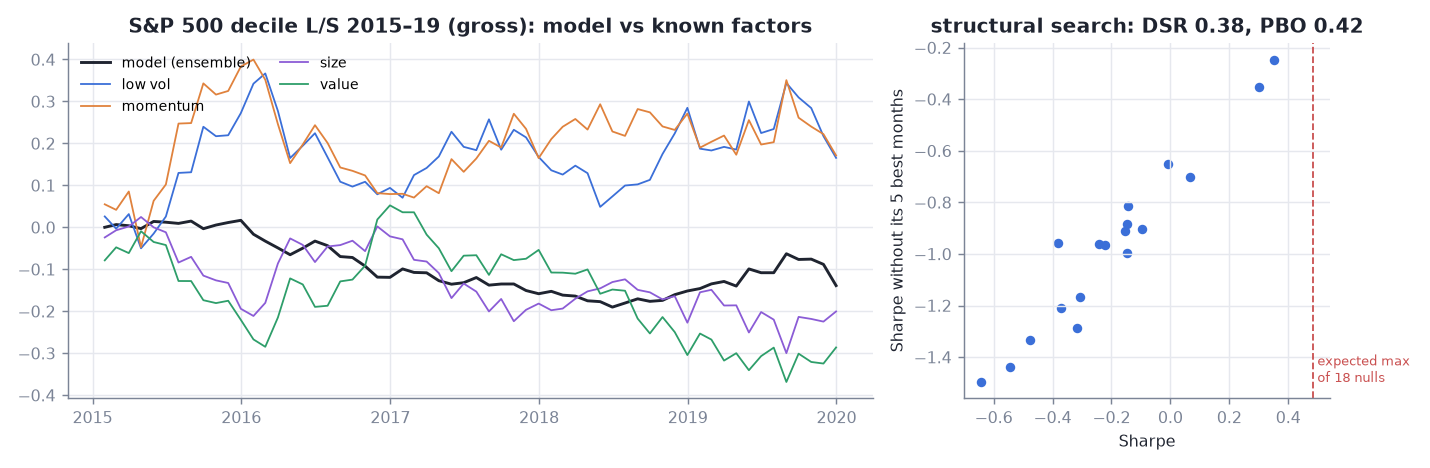
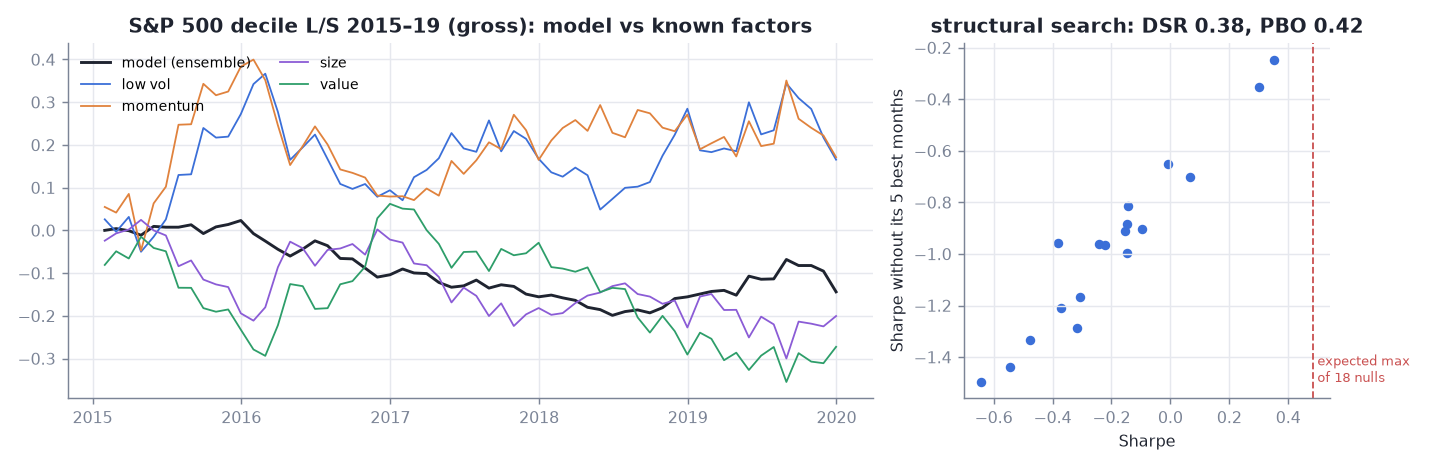
Gallery: PEAD (filing vs press-release timing; why the models lose to the sort)

Changed region(s): [[0.0, 0.2094, 0.6154, 0.7778], [0.1231, 0.1795, 0.1846, 0.2094], [0.0, 0.8376, 0.0615, 0.8675]]

diff --git a/examples/gallery/build.py b/examples/gallery/build.py
@@ -424,6 +424,63 @@ def spy_search(home: Path) -> dict[str, Any]:
     }
 
 
+def pead(store: ArtifactStore, home: Path) -> dict[str, Any]:
+    """Earnings events: the surprise sort timed on the 10-Q filing and on the press release, the models against it,
+    and why the models lose (training-sample ICs that do not survive)."""
+    recs = [r for r in records(home, "pead") if "cal_sue_sort" in r["results"] and not r["meta"].get("search")]
+    rel = next((r for r in reversed(recs) if r["meta"].get("params", {}).get("event") == "release"), None)
+    fil = next((r for r in reversed(recs) if r["meta"].get("params", {}).get("event", "filing") == "filing"), None)
+    if rel is None or fil is None:
+        return {}
+    fig, ax = plt.subplots(1, 2, figsize=(11, 3.6), gridspec_kw={"width_ratios": [1.6, 1]})
+    for rec, stage, label, c, ls in (
+        (fil, "cal_sue_sort", "surprise sort, entered after the 10-Q filing", MUTED, "--"),
+        (rel, "cal_sue_sort", "surprise sort, entered after the press release", INK, "-"),
+        (rel, "cal_ridge", "ridge on 7 inputs, press release", C["short"], "-"),
+    ):
+        st = load(store, rec, stage)
+        d = pl.DataFrame(st["daily"]).with_columns(pl.col("date").str.to_date())
+        ax[0].plot(
+            d["date"],
+            np.cumsum(d["ls"].to_numpy()),
+            color=c,
+            ls=ls,
+            lw=1.3,
+            label=f"{label}: Sharpe {st['ls']['sharpe']:.2f}",
+        )
+    ax[0].axhline(0, color=INK, lw=0.6)
+    ax[0].set_title("S&P 500 earnings events 2014–20: top vs bottom decile, held 60 days", fontsize=10)
+    ax[0].legend(loc="upper left", fontsize=7.5)
+    P = load(store, rel, "panel")
+    feats = ["sue", "rev_sue", "accruals", "ear_3", "pre_21", "size", "mom_12_1"]
+    tr, te = P.filter(pl.col("y_year") < 2014), P.filter(pl.col("y_year").is_between(2014, 2020))
+    ic = {
+        f: (tr.select(pl.corr(f, "y", method="spearman")).item(), te.select(pl.corr(f, "y", method="spearman")).item())
+        for f in feats
+    }
+    y = np.arange(len(feats))
+    ax[1].barh(y + 0.2, [ic[f][0] for f in feats], 0.4, color=MUTED, label="first training window (2011–13)")
+    ax[1].barh(y - 0.2, [ic[f][1] for f in feats], 0.4, color=C["ls"], label="test years (2014–20)")
+    ax[1].set_yticks(y, feats, fontsize=8)
+    ax[1].axvline(0, color=INK, lw=0.6)
+    ax[1].set_title("input IC with the 60-day return")
+    ax[1].legend(loc="upper center", bbox_to_anchor=(0.5, -0.1), ncol=1, fontsize=7, frameon=False)
+    fig.tight_layout()
+    fig.savefig(FIG / "pead.png")
+    plt.close(fig)
+    books = {k: load(store, rel, "compare")["books"][k] for k in ("sue_sort", "ridge", "gbm", "ensemble")}
+    return {
+        "release_run": rel["run_id"],
+        "filing_run": fil["run_id"],
+        "filing_sue_sort_sharpe": load(store, fil, "cal_sue_sort")["ls"]["sharpe"],
+        "release_books": {
+            k: {"sharpe": v["sharpe"], "sharpe_ci": v["sharpe_ci"], "vs_sue_sort": v["vs_sue_sort"]}
+            for k, v in books.items()
+        },
+        "ic_train_test": ic,
+    }
+
+
 def twin_search(home: Path) -> dict[str, Any]:
     srch = _searches(home, "equity_twin")
     if len(srch) < 2:
@@ -461,6 +518,7 @@ def main() -> None:
         "equity_ls": equity(store, home),
         "spy_timing": spy_timing(store, home),
         "spy_search": spy_search(home),
+        "pead": pead(store, home),
         "twin_search": twin_search(home),
     }
     (HERE / "numbers.json").write_text(json.dumps(numbers, indent=1, default=str))

diff --git a/examples/gallery/README.md b/examples/gallery/README.md
@@ -5,6 +5,7 @@ Client studies of very different shapes, all run on the same chairlift modules (
 - **VXX**: one instrument and one row per date; timing the short-term VIX futures index.
 - **equity L/S**: S&P 500 members monthly, with fundamentals as filed.
 - **SPY timing**: one instrument, macro inputs with publication lags.
+- **PEAD**: S&P 500 earnings events, a few a day, each held 60 days.
 
 Everything here is an aggregate of a recorded run: figures, tables, and terminal transcripts. No data ships, and none
 of it is needed to read the page. `build.py` regenerates the figures and `numbers.json` from the run records under
@@ -218,6 +219,29 @@ Both real clients get in-fold transform searches: winsorize, interactions and PC
 
 That is why time-series studies with a baseline benchmark now get `active_<book>` stages, and why the SPY client's
 HEADLINE judges `active_main`.
+
+## 8. Earnings events: a weak drift, and why the models lose to a sort
+
+Post-earnings-announcement drift: after an earnings surprise, does the stock keep drifting the same way? Each
+quarter's earnings become one event, ranked against the 91 days of events before it, held 60 trading days, and marked
+against the equal-weight S&P 500. chairlift's event book (`QuantileBook(pool_days=91)`) matches the client's own
+calendar-time book to 0.0 on every day.
+
+The event can be timed two ways:
+- on the SEC filing (10-Q), a median 35 days after quarter end
+- on the earnings press release (reaction-day close), from an earnings calendar validated against prices (the
+  largest move in the week falls on the recorded reaction day 64% of the time)
+
+![PEAD](figures/pead.png)
+
+- **The drift is weak either way.** The surprise sort, no model, scores 0.45 on filings and 0.51 on releases
+  [−0.37, 1.56]: a little stronger at the release, still not distinguishable from zero.
+- **The models lose to the sort, and on releases with confidence.** Ridge scores −0.30 (Δ −0.81 [−1.73, −0.16]),
+  the ensemble −0.14 (Δ −0.66 [−1.46, −0.06]).
+- **Why:** with a few thousand training events, an IC's standard error is 0.01–0.02. The first training window's
+  ICs (grey) are mostly that size, and several flip sign in the test years (blue): revenue surprise −0.037 → +0.033.
+  The regression fits the noise; the sort uses the prior.
+- Every number comes from a run that `chairlift rerun` reproduces bit for bit. The holdout stays sealed.
 
 ## Files
 
